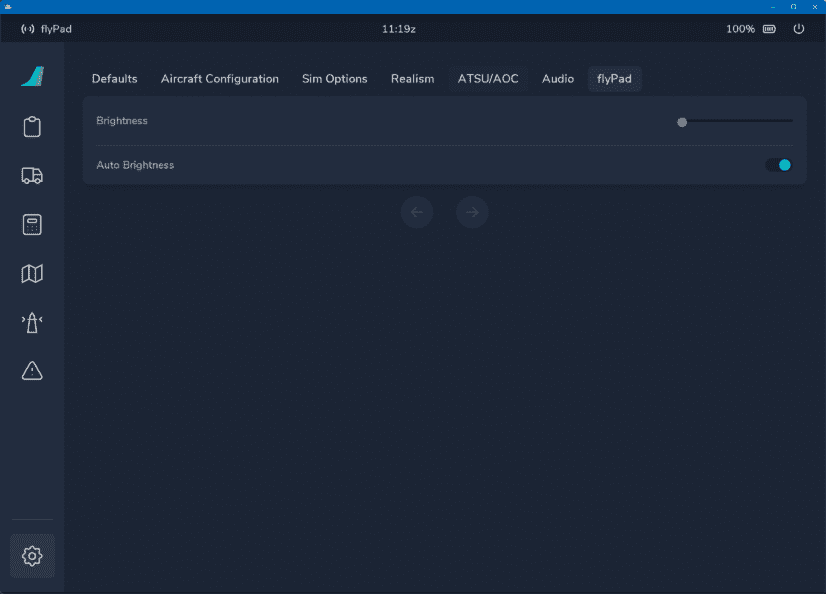
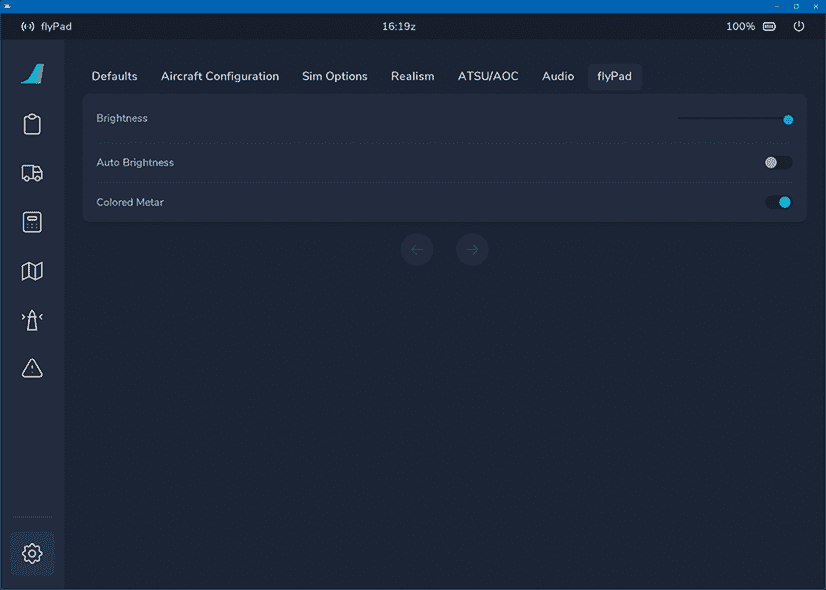
Updated EFB flyPad settings page for the flyPad itself (colored METAR)

diff --git a/docs/fbw-a32nx/feature-guides/flyPad/settings.md b/docs/fbw-a32nx/feature-guides/flyPad/settings.md
@@ -269,6 +269,8 @@ Settings for the flyPad itself.
     - Manually set brightness of the flyPad
 - Auto Brightness:
     - Sets the brightness of the flyPad automatically based on the time of day.
+- Colored Metar:
+    - Enable or disable the colored raw METAR on the flyPad Dashboard.
 
 ## Throttle Configuration
 
